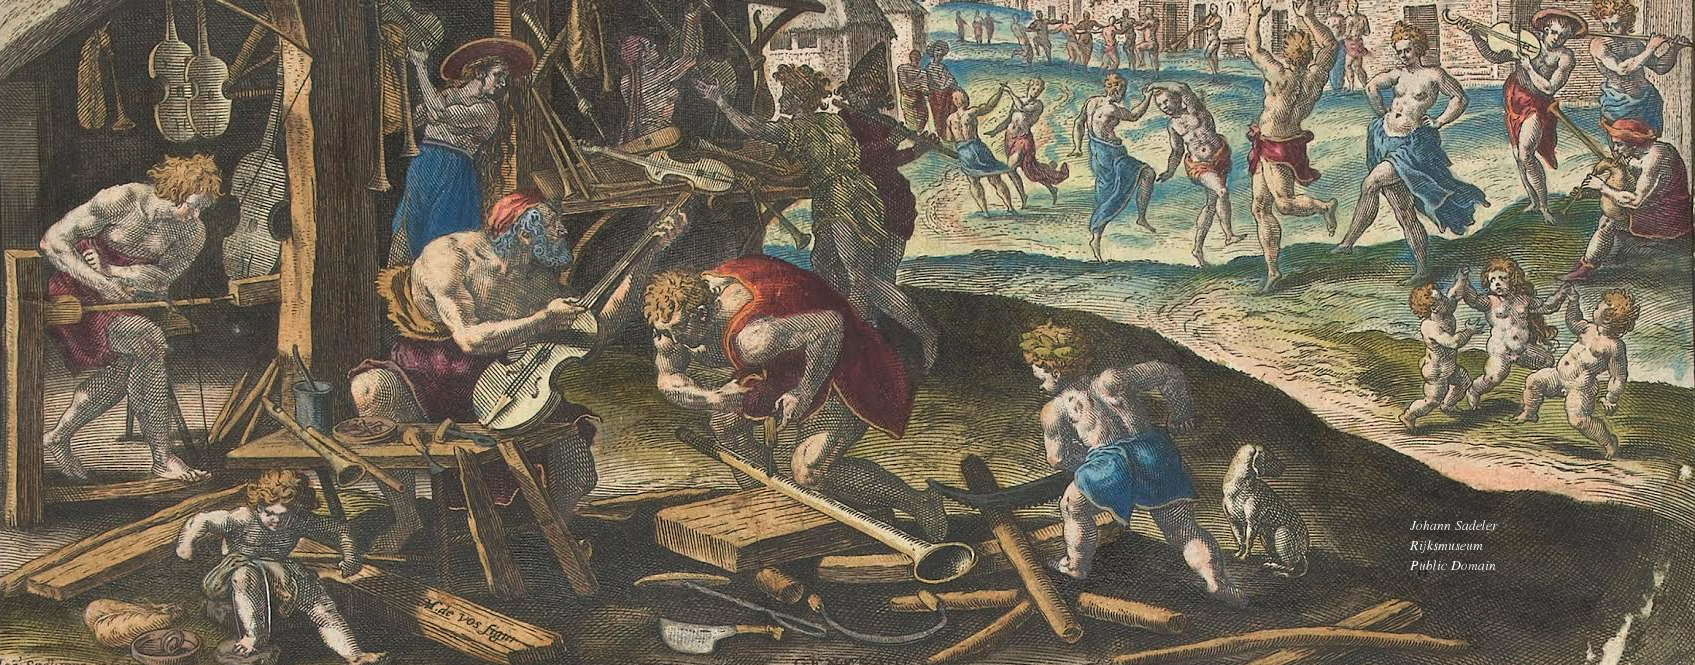
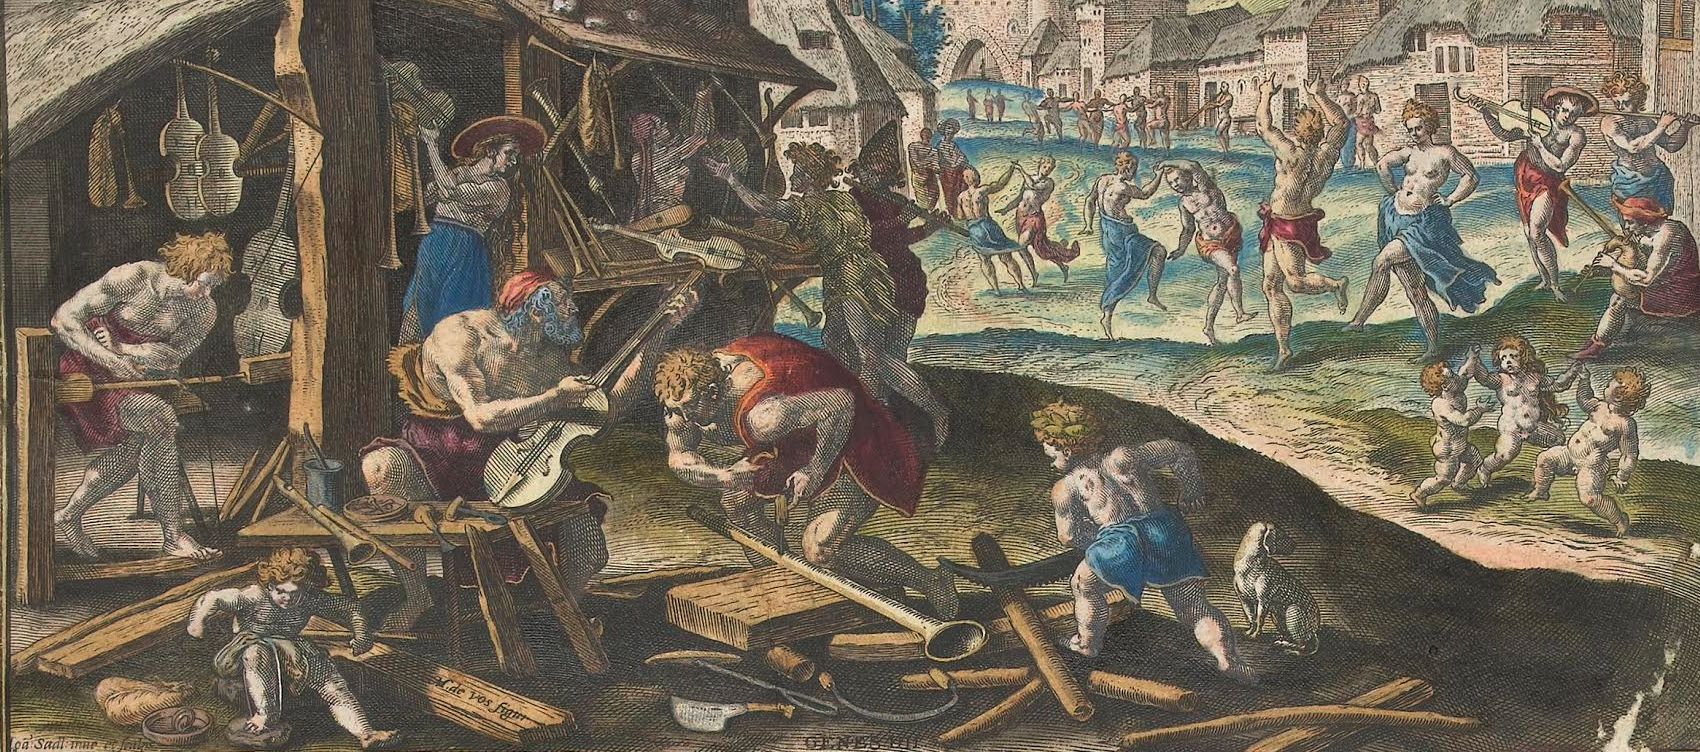
frontpage soundspace

diff --git a/public/custom/soundspace/components/top-bar/top-bar.html b/public/custom/soundspace/components/top-bar/top-bar.html
@@ -29,14 +29,18 @@
           </ul>
         </div>
       </nav>
+
        <!-- hero, only to be rendered in index page => how? moved to index.html-->
-       <section class="annotatehero" id="annotatehero">
-        <!-- top-->
-        <div class="top">
+       <section class="annotatehero " id="annotatehero">
+        <!-- top-->  
+        <div class="top ">
+          <div class = "hero-bg">
           <!-- wrap-->
           <div class="wrap">
-            <div class="container">
+            <div class="container ">
               <!-- the wrap-->
+              <h1></h1>
+              <h2></h2>
               <h1>Tag our archive</h1><span class="topic">Spot musical instruments</span>
               <!-- description-->
               <p>Have an ear for musical instruments? Use your talent to tag all the instruments you 
@@ -47,6 +51,9 @@
               	space rock all the way to the sounds coming from Tibetian monastries. </p>
               <!-- action button-->
               <div class="annotatebtn"><a> <span class="text">Start tagging now and earn your badge!</a></div>
+            <div class="hero-bg-credit">
+            <h2></h2>
+            Jubal en zijn gezin maken muziekinstrumenten, Johann Sadeler (I), after Maerten de Vos, 1583, Public Domain</div>
             </div>
           </div>
         </div>

diff --git a/public/css/annotate.css b/public/css/annotate.css
@@ -297,3 +297,32 @@ body section.annotate .bottom .info .annotatebtn:hover {
   background: #007aaf;
   text-decoration: none;
 }
+
+.hero-bg-credit{
+
+    position:relative;
+    left: 95%;
+    bottom:0;
+    width: 200px;
+    color: white;
+    text-align: center;
+
+    /*background-color: rgba(0, 0, 0, 0.6);*/
+    /*border: 1px solid black;*/
+    opacity: 0.8;
+}
+
+.hero-bg {
+    position:relative;
+/*    left: 50px;
+    right:50px;*/
+    width: 100%;
+    height: 100%;
+    color: white;
+    text-align: center;
+    /*top: 75px;*/
+    background-color: rgba(0, 0, 0, 0.4);
+    border: 1px solid black;
+    opacity: 1;
+    margin: 0 auto;
+}
